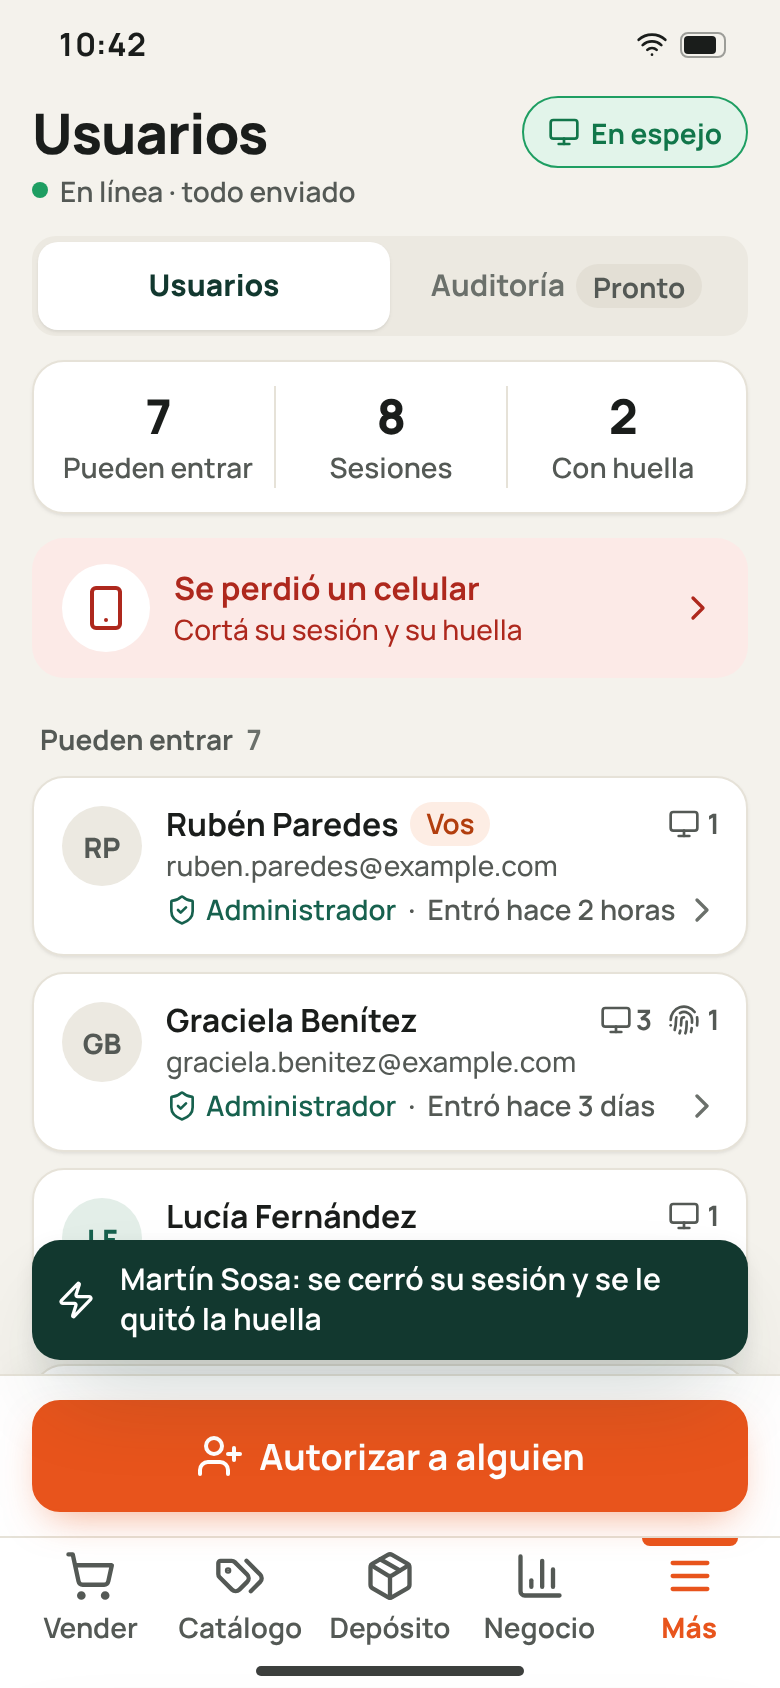
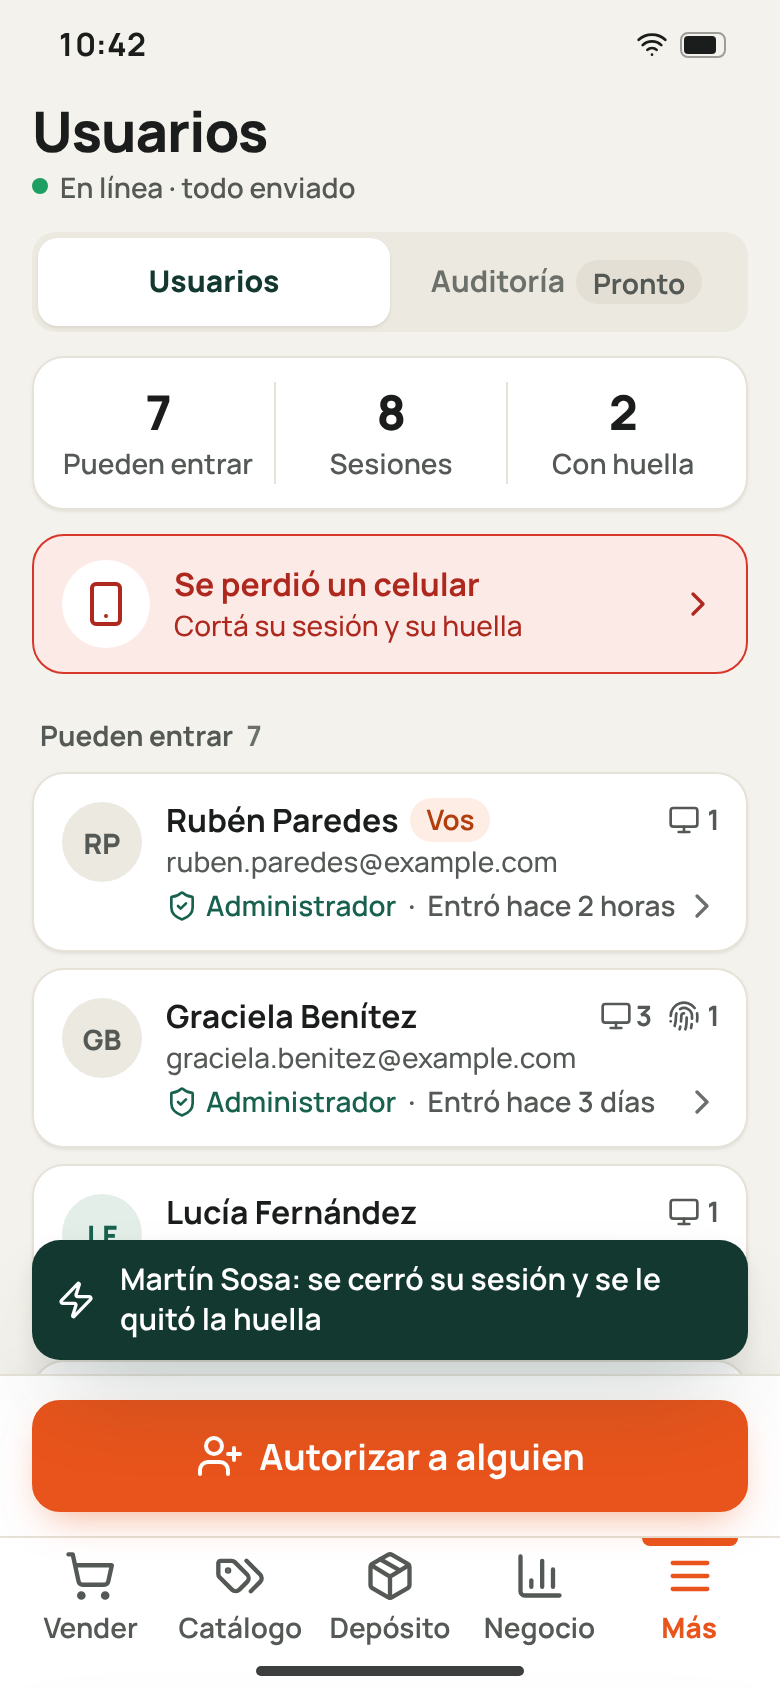
02 · Personas, etapa a: la pantalla Usuarios, aprobada
Carlos aprobó la maqueta final en la computadora y en el celular. En el
celular se sacó «En espejo» (es del módulo 03), la barra de la tarjeta va de
color liso y «Se perdió un celular» lleva borde, para que se vea que se toca.

Claude-Session: https://claude.ai/code/session_01BmbhiYJAfQvWshUgYzn7JL

diff --git a/docs/design/mockups/users-a/final/phone/index.html b/docs/design/mockups/users-a/final/phone/index.html
@@ -25,8 +25,9 @@
   .perdido small { display: block; font-size: 14px; line-height: 20px; color: var(--texto-2); }
   .perdido > .i { color: var(--texto-3); }
   /* Maqueta final (pedido de Carlos): se distingue de los renglones de las personas con el fondo rojo
-     suave, el texto en su rojo y el ícono sobre blanco. */
-  .perdido { background: var(--error-suave); border-color: transparent; box-shadow: none; }
+     suave, el borde rojo (para que se vea como algo que se toca), el texto en su rojo y el ícono
+     sobre blanco. */
+  .perdido { background: var(--error-suave); border-color: var(--error); box-shadow: none; }
   .perdido .ic { background: var(--superficie); }
   .perdido b, .perdido small, .perdido > .i { color: var(--error-texto); }
   .grupo { display: flex; gap: 6px; align-items: baseline; font-size: 14px; font-weight: 700; color: var(--texto-2); padding: 20px 4px 8px; }
@@ -54,7 +55,7 @@
   body.en-tarjeta #tarjeta { transform: none; box-shadow: -12px 0 32px -16px rgba(26,29,27,.25); }
   .lista-zona { transition: transform var(--t-nav) var(--curva), opacity var(--t-nav); }
   body.en-tarjeta .lista-zona { transform: translateX(-30%); opacity: .6; }
-  .tb { display: flex; align-items: center; height: 52px; padding: 0 8px; position: sticky; top: 0; background: rgba(244,242,236,.94); backdrop-filter: blur(12px); z-index: 2; }
+  .tb { display: flex; align-items: center; height: 52px; padding: 0 8px; position: sticky; top: 0; background: var(--fondo); z-index: 2; }
   .tb .btn { color: var(--pino-texto); font-size: 16px; padding: 0 8px; }
   .tb .t { position: absolute; left: 50%; transform: translateX(-50%); font-weight: 750; opacity: 0; transition: opacity var(--t); }
   #tarjeta.corrida .tb .t { opacity: 1; }
@@ -93,7 +94,7 @@
   <div class="barra-estado"><span>10:42</span><span class="se"><i class="i i-s" data-i="wifi"></i><svg width="26" height="13" viewBox="0 0 26 13"><rect x=".5" y=".5" width="22" height="12" rx="3.5" fill="none" stroke="#1A1D1B" opacity=".4"/><rect x="2" y="2" width="16" height="9" rx="2" fill="#1A1D1B"/></svg></span></div>
 
   <div class="lista-zona" style="display:flex;flex-direction:column;flex:1;min-height:0">
-    <div class="celu-cabecera"><span class="t-titulo">Usuarios</span><span class="btn-vinculo"><i class="i i-s" data-i="monitor"></i>En espejo</span></div>
+    <div class="celu-cabecera"><span class="t-titulo">Usuarios</span></div>
     <button class="celu-estado"><span class="punto"></span><span data-luz>En línea · todo enviado</span></button>
     <nav class="celu-pestanas"><a class="activa" data-no-ir aria-current="page">Usuarios</a><a class="pestana-pronto" data-no-ir aria-disabled="true">Auditoría <span class="pronto">Pronto</span></a></nav>
     <div class="aviso urgente cartel-red"><i class="i" data-i="wifi-off"></i>Sin conexión: Usuarios vuelve sola cuando vuelva la conexión.</div>

diff --git a/docs/project/roadmap.md b/docs/project/roadmap.md
@@ -23,7 +23,7 @@ El mismo nombre se usa en el capítulo (`docs/chapters/NN-<module>/`), en el dis
 |---|---|---|---|---|---|
 | 00 | `app` | Las reglas generales de la aplicación: el marco, el menú, el teclado, la conexión, la versión nueva, el manual, las esperas, los formatos | No se construye solo: cada regla se construye con el primer módulo que la necesita | — | Reglas aprobadas |
 | 01 | `sign-in` | Entrar (Google en la computadora y en el celular, huella en el celular, entrar a la computadora con el celular) y salir. Con él nace la base: el servidor, la aplicación, el marco vacío al que se llega al entrar y el despliegue al ambiente de pruebas. El primer Administrador sale del `.env` | Sin entrar no hay nada que probar: es lo primero | 00 | Hecho: Carlos lo probó y lo aprobó, con su manual |
-| 02 | `users` | En dos etapas. **a. Personas y sesiones:** autorizar, cambiar y dar de baja personas, y cerrar a distancia sus sesiones y quitar sus celulares con huella, todavía con el único rol Administrador. **b. Roles y permisos:** permisos fijos que define cada módulo, roles armados por el negocio, la aplicación y el servidor que respetan los permisos, y las protecciones para no quedarse sin quien administre | La a, para que entre alguien más que el primer Administrador y para resolver un celular perdido; la b, justo después, porque la usan todos los módulos que siguen | a: 01; b: 02a | a: en curso, paso 2; b: libre |
+| 02 | `users` | En dos etapas. **a. Personas y sesiones:** autorizar, cambiar y dar de baja personas, y cerrar a distancia sus sesiones y quitar sus celulares con huella, todavía con el único rol Administrador. **b. Roles y permisos:** permisos fijos que define cada módulo, roles armados por el negocio, la aplicación y el servidor que respetan los permisos, y las protecciones para no quedarse sin quien administre | La a, para que entre alguien más que el primer Administrador y para resolver un celular perdido; la b, justo después, porque la usan todos los módulos que siguen | a: 01; b: 02a | a: en curso, paso 3; b: libre |
 | 03 | `device-link` | Vincular el celular y la computadora, el espejo, el lector de códigos y las fotos | Hace falta para leer los códigos del catálogo | 01 | Libre |
 | 04 | `device-settings` | La configuración de cada dispositivo (animaciones, trabajar sin conexión, mis celulares con huella, mi vínculo, formatos) | Prioridad de Carlos; la usan los módulos siguientes | 01 | Libre |
 | 05 | `audit-log` | La auditoría (lo que hacen las personas): guardarla y consultarla, en Más → Usuarios → Auditoría | Va antes del catálogo porque lo usan los que siguen: la historia de precios y de stock se lee de acá, y Carlos ve en la auditoría lo que hace cada módulo mientras lo prueba | 01 | Libre |

diff --git a/docs/design/mockups/users-a/final/changes.md b/docs/design/mockups/users-a/final/changes.md
@@ -7,7 +7,7 @@ Carlos:
   tarjeta» (`../desktop/variant-1-list/`). Usa los archivos de la variante copiados en `shared/`.
   `data.js` y `v1.js` llevan los cambios de abajo, y la página suma las teclas con Alt y las
   pestañas.
-- **Celular (`phone/`):** la variante 1 de la tercera ronda, «Entrar a la tarjeta»
+- **Celular (`phone/`, aprobado):** la variante 1 de la tercera ronda, «Entrar a la tarjeta»
   (`../../users-a3/phone/variant-1-push/`). Sus archivos compartidos (`base.css`, `data.js`,
   `ui.js`, `icons-extra.js`) están copiados en la misma carpeta.
 
@@ -84,9 +84,13 @@ Capturas:
 ### Por directivas de Carlos
 
 - **El renglón «Se perdió un celular» resalta para distinguirse de los renglones de las
-  personas:** en la variante era blanco, con borde y sombra, como ellos. Ahora va con el fondo rojo
-  suave (`--error-suave`), sin borde ni sombra, el título, la línea y la flecha en su rojo
-  (`--error-texto`) y el ícono sobre un círculo blanco. Lugar, tamaño y texto, como en la variante.
+  personas:** en la variante era blanco, con borde gris y sombra, como ellos. Ahora va con el fondo
+  rojo suave (`--error-suave`), el borde de 1 px en rojo (`--error`) para que se vea como algo que
+  se toca, sin sombra, el título, la línea y la flecha en su rojo (`--error-texto`) y el ícono sobre
+  un círculo blanco. Lugar, tamaño y texto, como en la variante.
+- **Sin el botón «En espejo» en la cabecera:** queda solo el título «Usuarios».
+- **La barra de arriba de la tarjeta (‹ Usuarios) es de color liso** (`--fondo`), sin el
+  desenfoque de la variante.
 - **Auditoría lleva «Pronto» y no se abre,** igual que en la computadora aprobada (00 · R1.3): en
   la variante llevaba a otra maqueta. Al tocarla, la tostada lo dice.
 

diff --git a/docs/chapters/02-users/screens.md b/docs/chapters/02-users/screens.md
@@ -5,4 +5,4 @@ Se diseñan una por vez, en este orden (constitución, paso 2). Las maquetas se 
 
 | # | Pantalla | Qué se tiene que poder hacer | Maqueta |
 |---|---|---|---|
-| 1 | Usuarios (etapa a), en Más → Usuarios | Ver a las personas, autorizar, cambiar el nombre o el correo, borrar, dar de baja y de alta; en la tarjeta de cada persona, sus sesiones y sus celulares con huella; «Se perdió un celular» | **Computadora, aprobada:** `mockups/users-a/final/desktop/`, copia de la variante 1 del director (primera ronda) con «Se perdió un celular» como botón secundario al lado de «Autorizar a alguien», en Más → Usuarios y con las teclas solo con Alt. **Celular, elegida:** la variante 1 de la tercera ronda, «Entrar a la tarjeta» (`mockups/users-a3/phone/variant-1-push/`), con «Se perdió un celular» resaltado para que se distinga de las personas; la final, en `mockups/users-a/final/phone/` |
+| 1 | Usuarios (etapa a), en Más → Usuarios | Ver a las personas, autorizar, cambiar el nombre o el correo, borrar, dar de baja y de alta; en la tarjeta de cada persona, sus sesiones y sus celulares con huella; «Se perdió un celular» | **Computadora, aprobada:** `mockups/users-a/final/desktop/`, copia de la variante 1 del director (primera ronda) con «Se perdió un celular» como botón secundario al lado de «Autorizar a alguien», en Más → Usuarios y con las teclas solo con Alt. **Celular, aprobada:** `mockups/users-a/final/phone/`, copia de la variante 1 de la tercera ronda, «Entrar a la tarjeta» (`mockups/users-a3/phone/variant-1-push/`), con «Se perdió un celular» resaltado en rojo suave y con borde, para que se distinga de las personas y se vea que se toca; sin «En espejo» y con la barra de la tarjeta de color liso |

diff --git a/docs/chapters/README.md b/docs/chapters/README.md
@@ -17,7 +17,7 @@ se dejó y qué propone mejorar (constitución, paso 1).
 |---|---|---|
 | 00 · La aplicación ([`00-app`](00-app/summary.md)) | El marco, el menú, el teclado, la luz de conexión, la versión nueva, el manual | Reglas aprobadas; sus pantallas se diseñan con el módulo que las necesita |
 | 01 · Entrar ([`01-sign-in`](01-sign-in/summary.md)) | Entrar y salir, y el marco vacío al que se llega | Programado; Carlos lo probó y lo aprobó; paso 9: el manual |
-| 02 · Personas ([`02-users`](02-users/summary.md)) | Personas, roles, permisos y sesiones, en dos etapas: a. personas y sesiones; b. roles y permisos | Etapa a: reglas aprobadas; pantallas |
+| 02 · Personas ([`02-users`](02-users/summary.md)) | Personas, roles, permisos y sesiones, en dos etapas: a. personas y sesiones; b. roles y permisos | Etapa a: reglas y pantallas aprobadas; diseño técnico |
 | 03 · Celular y computadora (`03-device-link`) | Vincular, espejo, lector de códigos, fotos | Por escribir |
 | 04 · Configuración del dispositivo (`04-device-settings`) | Lo que cada persona elige para su dispositivo | Por escribir |
 | 05 · Auditoría (`05-audit-log`) | El registro de cada acción y cómo se consulta, en Más → Usuarios | Por escribir |
